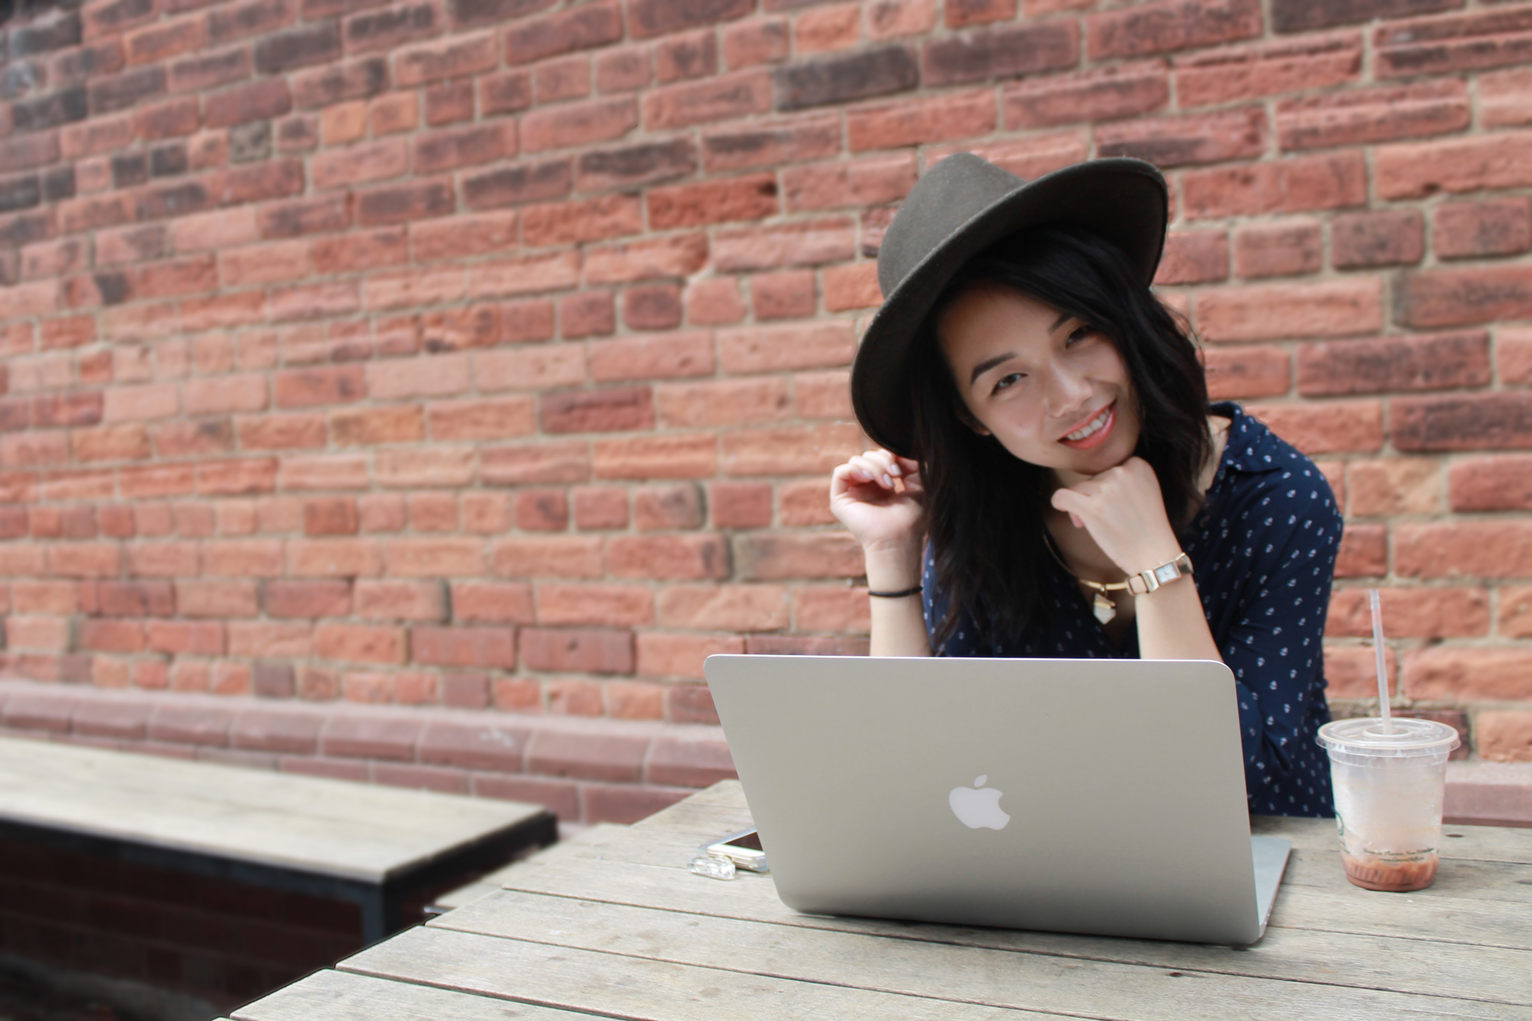
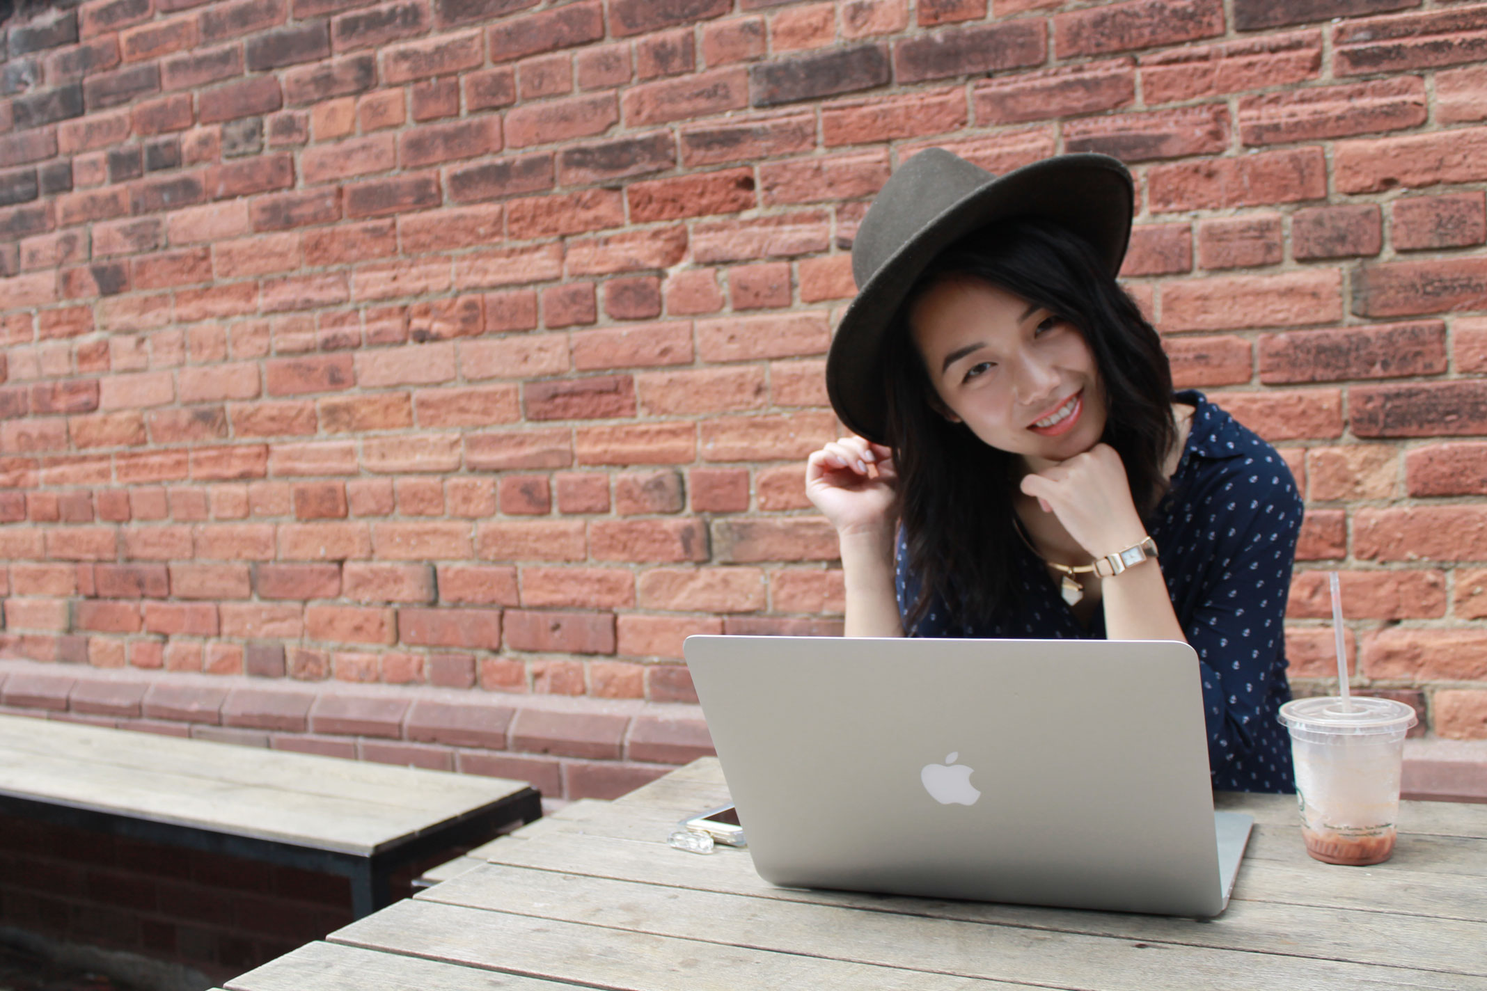
improved header image loading

diff --git a/assets/stylesheets/css/base.css b/assets/stylesheets/css/base.css
@@ -1,1 +1,1 @@
-body{font-family:proxima-nova,Helvetica,Arial,sans-serif;color:#1b1c1c;font-size:14px;font-weight:300}@media (min-width:768px){body{font-size:20px}}h1{color:#13cec8;font-weight:700;font-size:3.5em;margin-top:190px}@media (max-width:768px){h1{margin-top:3em}}h2{color:#989999;font-style:italic;font-weight:300;font-size:1.4em;margin-top:0}h3{color:#989999;text-transform:capitalize;font-size:2.1em;margin-top:.5em}h4{font-size:3em}h5{font-weight:700;font-size:1.2em}p{font-size:1em}p.disclaimer{color:#989999;font-size:.8em}a{color:#ff6c4e}a:hover{color:#a94c39}.story{margin:0 20px}#slide-1{margin-top:0;-webkit-transition:margin-top .35s ease;-o-transition:margin-top .35s ease;transition:margin-top .35s ease;background-color:#13cec8;margin-left:-15px;margin-right:-15px;position:relative}@media (min-width:768px){#slide-1{background-image:url(../../img/main-banner.jpg);background-repeat:no-repeat;background-position:center center;background-size:cover}#slide-1 .img-filter{background-color:rgba(65,66,66,.36);margin:0}}@media (max-width:798px){#slide-1{height:300px;-webkit-transition:height .35s ease;-o-transition:height .35s ease;transition:height .35s ease}#slide-1 #startImage{height:300px}}#slide-1.movingDown{height:527px;-webkit-transition:height .35s ease;-o-transition:height .35s ease;transition:height .35s ease}#slide-1 #title-info{position:absolute;top:35%;margin-top:0;-webkit-transition:margin-top .35s ease;-o-transition:margin-top .35s ease;transition:margin-top .35s ease}#slide-1 #title-info.movingDown{margin-top:227px;-webkit-transition:margin-top .35s ease;-o-transition:margin-top .35s ease;transition:margin-top .35s ease}@media (max-width:768px){#slide-1 li#contactMe{padding-right:25px;padding-top:3px;padding-bottom:8px}#slide-1 .navbar-bottom{top:-moz-calc(100% - 53px);top:-webkit-calc(100% - 53px);top:-o-calc(100% - 53px);top:calc(100% - 53px);margin-right:-22px;margin-left:-22px}#slide-1 .nav>li{padding-right:10px}}#slide-1 h1{color:#fff;margin:0}#slide-1 h2,#slide-1 a{color:#ebecec}#slide-1 a:hover{background-color:#414242}#slide-1 .row{margin:0 15px}.home-section-title{text-align:center}#slide-2{margin-top:0;-webkit-transition:margin-top .35s ease;-o-transition:margin-top .35s ease;transition:margin-top .35s ease}#slide-2 .skill-sets{text-align:center;margin-top:15px}@media (max-width:768px){#slide-2 .skill-sets{margin-bottom:25px}#slide-2 .skill-sets h5{margin-top:10px;margin-bottom:5px}}#slide-2 .fa-5x{color:#13cec8;font-size:4em}#slide-2 h5{margin-top:30px}#slide-4 .company{color:#ff6c4e;font-weight:400}#slide-4 [class^=des-]{font-size:.8em;color:#989999;margin:0}@media (max-width:768px){#slide-4 [class^=des-]{font-size:.8em}}#slide-4 .opp{margin:20px 0 45px}#slide-4 h5{margin-bottom:0;margin-top:0}#slide-4 h3{padding-left:15px}@media (max-width:992px){#slide-4 .description{margin-top:10px}}.footer{background-color:#1b1c1c}.footer ul{padding:0}.footer li{position:relative;display:inline-block;margin-top:10px;padding-left:calc(12.5% - .75em);padding-right:calc(12.5% - .75em)}.footer li a{color:#ebecec}#slide-3{margin:0 -15px;overflow:hidden}#slide-3 #portfolio{margin:0 auto;overflow:scroll;padding:0;text-align:left;width:100%}#slide-3 #portfolio h5{font-weight:400}#slide-3 #portfolio .row{margin:0;position:relative;left:0}#slide-3 #portfolio .col-12{display:inline-block;height:451px;margin:0;padding:0;width:452px}#slide-3 #portfolio figure{position:relative;z-index:1;display:inline-block;overflow:hidden;cursor:pointer}@media (max-width:768px){#slide-3 #portfolio figure{margin-bottom:20px}}#slide-3 #portfolio figure #figAStyling{position:absolute;top:0;left:0;width:100%;height:100%}#slide-3 #portfolio figure a{z-index:1000;text-indent:200%;white-space:nowrap;font-size:0;opacity:0;position:absolute;top:0;left:0;width:100%;height:100%}@media (min-width:768px){#slide-3 #portfolio figure figcaption{padding:2em;bottom:0;font-size:1.25em;color:#fff;-webkit-backface-visibility:hidden;backface-visibility:hidden;position:absolute;top:0;left:0;width:100%;height:100%}#slide-3 #portfolio figure figcaption p{position:absolute;bottom:0;line-height:1.1em;border-top:1px solid #fff}#slide-3 #portfolio figure figcaption::before{position:absolute;top:0;left:0;width:100%;height:100%;content:'';opacity:0;-webkit-transform:translate3d(0,50%,0);transform:translate3d(0,50%,0);background:rgba(65,66,66,.36);-webkit-transition:opacity .35s,-webkit-transform .35s;transition:opacity .35s,transform .35s}#slide-3 #portfolio figure figcaption #Effects{-webkit-transition:opacity .35s,-webkit-transform .35s;transition:opacity .35s,transform .35s}#slide-3 #portfolio figure figcaption p{-webkit-transition:opacity .35s,-webkit-transform .35s;transition:opacity .35s,transform .35s;position:absolute;bottom:0;left:1em;padding:1em;width:calc(100% - 2em);opacity:0;-webkit-transform:translate3d(0,10px,0);transform:translate3d(0,10px,0)}#slide-3 #portfolio figure:hover figcaption::before,#slide-3 #portfolio figure:hover p{opacity:1;-webkit-transform:translate3d(0,0,0);transform:translate3d(0,0,0)}}#slide-3 #portfolio img{display:block;height:100%;margin:0 auto;width:100%;position:relative}@media (max-width:991px){#slide-3 #portfolio{text-align:center;width:100%}#slide-3 #portfolio .row{left:0!important;margin:0;width:100%!important}#slide-3 #portfolio .col-12{height:auto;width:50%}#slide-3 #portfolio a,#slide-3 #portfolio img{height:auto;max-height:100%;max-width:100%;width:auto}}#slide-3 #controls{float:right;margin-right:15px;margin-top:10px}#slide-3 #controls button{font-weight:400;font-size:inherit;outline:0;border:none!important;-webkit-box-shadow:none!important;-moz-box-shadow:none!important;box-shadow:none!important;color:#13cec8}#slide-3 #controls button:active{color:#277d7a}#slide-3 #controls button.inactive{color:#ebecec;cursor:inherit}#contactMeModal .modal-content{text-align:center}#contactMeModal .modal-header{border:none;padding-bottom:0}#contactMeModal .modal-header h1{margin-top:30px}#contactMeModal .modal-body{padding-top:0;margin-bottom:45px}.btn-primary{background-color:#13cec8;border-color:#277d7a}.btn-primary:hover,.btn-primary:focus{background-color:#277d7a}.navbar-fixed-top{background:rgba(255,255,255,.85);padding:10px 17px 5px 17px;-moz-box-shadow:0 2px 3px 0 rgba(152,153,153,.33);box-shadow:0 2px 3px 0 rgba(152,153,153,.33);-webkit-transition:background .55s ease;transition:background .55s ease}@media (max-width:798px){.navbar-fixed-top{padding:0}.navbar-fixed-top li a{padding-right:25px}}.navbar-fixed-top .navbar-left{margin-left:-15px}.navbar-fixed-top .navbar-left li a{padding-left:0}.navbar-fixed-top a{color:#1b1c1c;font-weight:400!important}.navbar-fixed-top a:hover{background-color:transparent!important;color:#a94c39}.navbar-fixed-top .active{color:#ff6c4e!important}.navbar-fixed-top button.navbar-toggle span{background:#1b1c1c}.navbar-fixed-top li#contactMe{margin-top:7px;margin-left:9px}.navbar-fixed-top li.active a{padding-left:0}.navbar-fixed-top.navbar-clear{background:rgba(65,66,66,.4);box-shadow:none;-webkit-transition:background .35s ease;transition:background .35s ease}.navbar-fixed-top.navbar-clear a{color:#ebecec}.navbar-fixed-top.navbar-clear a:hover{color:#ff6c4e}.navbar-fixed-top.navbar-clear .btn-primary{background-color:transparent;border:1px solid #ebecec;color:#ebecec}.navbar-fixed-top.navbar-clear.darker{background:rgba(65,66,66,.75);box-shadow:none;-webkit-transition:background .35s ease;transition:background .35s ease}.navbar-fixed-top.navbar-clear button.navbar-toggle span{background:#ebecec}.portfolio-pieces{text-align:center}.portfolio{margin:0 20px}@media (min-width:992px){.portfolio .title{margin-left:5em}}@media (min-width:768px){.portfolio .title{margin-left:2em}}.portfolio .portfolio-story{position:relative}.portfolio h4{text-align:center}@media (min-width:768px){.img-right{float:right;margin-right:-56px}.img-left{margin-left:-56px}}[id^=portfolio-cover-img-]{background-repeat:no-repeat;background-position:center top;height:450px}@media (max-width:768px){[id^=portfolio-cover-img-]{background-size:contain}}[id^=portfolio-cover-img-] p{display:none}#portfolio-cover-img-android{background-image:url(/assets/img/bc-android/newapp.png)}#portfolio-cover-img-infiniteScroll{background-image:url(/assets/img/bc-infiniteScroll/infinitescrolltab.png);width:100%}#portfolio-cover-img-alert{background-image:url(/assets/img/mongo-alerts/uiMac.png)}#portfolio-cover-img-diaryStudy{background-image:url(/assets/img/bc-research/diary.jpg)}#portfolio-cover-img-timeline{background-image:url(/assets/img/mongo-timeline/timeline-browser.png)}#portfolio-cover-img-finder{background-image:url(/assets/img/finder/finder-cover-image.png);background-size:400px 723px}@media (max-width:768px){#portfolio-cover-img-finder{background-size:350px}}#portfolio-cover-img-serendipity{background-image:url(/assets/img/serendipity/air-balloon.png)}.section{margin-top:3em}.sub-section{margin-top:3em}@media (min-width:992px){.sub-section{display:flex;display:-webkit-box;display:-ms-flexbox;display:-webkit-flex;align-items:center;align-content:center}}#about-project{margin-top:80px}#other-works{position:relative;margin-bottom:100px;margin-top:200px;border-top:1px solid #ebecec}#other-works h4{font-weight:300;font-size:1.7em;color:#1b1c1c;text-align:left}#other-works h1{margin-bottom:30px;margin-top:90px;margin-bottom:50px;font-size:2em}@media (min-width:992px){#other-works .other-works-name{position:absolute;bottom:0;left:50%}}.header,.content{background:#fff;padding:1em;-webkit-box-sizing:border-box;-moz-box-sizing:border-box;box-sizing:border-box}.content-full{height:100%}#done{height:100%}#infiniteScroll #original{margin-top:3em}@media (max-width:768px){ul.nav{text-align:right}}span.line{border-bottom:1px solid #ebecec;opacity:.65;margin:7px}@media (max-width:768px){.text-right{text-align:left}}#other-works a:hover{text-decoration:none}#other-works a:hover h4{color:#a94c39}.persona{height:300px;width:100%;float:left;background-repeat:no-repeat;background-position:center top;background-image:url(/assets/img/finder/ashley.jpg)}@media (max-width:768px){.persona{background-image:url(/assets/img/finder/ashley-sm.jpg);height:150px;margin-bottom:1em}}.persona p{display:none}#user-research h5{margin-top:45px}@media (min-width:992px){#user-research h5#name{margin-top:0}}.img-center{display:block;margin-left:auto;margin-right:auto}iframe{overflow:hidden}.gray{color:#989999;font-weight:300}.img-full{max-height:450px}
+body{font-family:proxima-nova,Helvetica,Arial,sans-serif;color:#1b1c1c;font-size:14px;font-weight:300}@media (min-width:768px){body{font-size:20px}}h1{color:#13cec8;font-weight:700;font-size:3.5em;margin-top:190px}@media (max-width:768px){h1{margin-top:3em}}h2{color:#989999;font-style:italic;font-weight:300;font-size:1.4em;margin-top:0}h3{color:#989999;text-transform:capitalize;font-size:2.1em;margin-top:.5em}h4{font-size:3em}h5{font-weight:700;font-size:1.2em}p{font-size:1em}p.disclaimer{color:#989999;font-size:.8em}a{color:#ff6c4e}a:hover{color:#a94c39}.story{margin:0 20px}#slide-1{margin-top:0;-webkit-transition:margin-top .35s ease;-o-transition:margin-top .35s ease;transition:margin-top .35s ease;background-color:#13cec8;margin-left:-15px;margin-right:-15px;position:relative}@media (min-width:768px){#slide-1{background-image:url(../../img/main-banner.jpg);width:100%;height:100%;-webkit-background-size:cover;background-size:cover;position:absolute}}#slide-1 #home-row-1{height:inherit}#slide-1 #home-row-1 #startImage{height:inherit}@media (max-width:798px){#slide-1{height:300px;-webkit-transition:height .35s ease;-o-transition:height .35s ease;transition:height .35s ease}#slide-1 #startImage{height:300px}}#slide-1.movingDown{height:527px;-webkit-transition:height .35s ease;-o-transition:height .35s ease;transition:height .35s ease}#slide-1 #title-info{position:absolute;top:35%;margin-top:0;-webkit-transition:margin-top .35s ease;-o-transition:margin-top .35s ease;transition:margin-top .35s ease}#slide-1 #title-info.movingDown{margin-top:227px;-webkit-transition:margin-top .35s ease;-o-transition:margin-top .35s ease;transition:margin-top .35s ease}@media (max-width:768px){#slide-1 li#contactMe{padding-right:25px;padding-top:3px;padding-bottom:8px}#slide-1 .navbar-bottom{top:-moz-calc(100% - 53px);top:-webkit-calc(100% - 53px);top:-o-calc(100% - 53px);top:calc(100% - 53px);margin-right:-22px;margin-left:-22px}#slide-1 .nav>li{padding-right:10px}}#slide-1 h1{color:#fff;margin:0}#slide-1 h2,#slide-1 a{color:#ebecec}#slide-1 a:hover{background-color:#414242}#slide-1 .row{margin:0 15px}.home-section-title{text-align:center}#slide-2{margin-top:0;-webkit-transition:margin-top .35s ease;-o-transition:margin-top .35s ease;transition:margin-top .35s ease}#slide-2 .skill-sets{text-align:center;margin-top:15px}@media (max-width:768px){#slide-2 .skill-sets{margin-bottom:25px}#slide-2 .skill-sets h5{margin-top:10px;margin-bottom:5px}}#slide-2 .fa-5x{color:#13cec8;font-size:4em}#slide-2 h5{margin-top:30px}#slide-2::before{height:40%}#slide-4 .company{color:#ff6c4e;font-weight:400}#slide-4 [class^=des-]{font-size:.8em;color:#989999;margin:0}@media (max-width:768px){#slide-4 [class^=des-]{font-size:.8em}}#slide-4 .opp{margin:20px 0 45px}#slide-4 h5{margin-bottom:0;margin-top:0}#slide-4 h3{padding-left:15px}@media (max-width:992px){#slide-4 .description{margin-top:10px}}.footer{background-color:#1b1c1c}.footer ul{padding:0}.footer li{position:relative;display:inline-block;margin-top:10px;padding-left:calc(12.5% - .75em);padding-right:calc(12.5% - .75em)}.footer li a{color:#ebecec}#slide-3{margin:0 -15px;overflow:hidden}#slide-3 #portfolio{margin:0 auto;overflow:scroll;padding:0;text-align:left;width:100%}#slide-3 #portfolio h5{font-weight:400}#slide-3 #portfolio .row{margin:0;position:relative;left:0}#slide-3 #portfolio .col-12{display:inline-block;height:451px;margin:0;padding:0;width:452px}#slide-3 #portfolio figure{position:relative;z-index:1;display:inline-block;overflow:hidden;cursor:pointer}@media (max-width:768px){#slide-3 #portfolio figure{margin-bottom:20px}}#slide-3 #portfolio figure #figAStyling{position:absolute;top:0;left:0;width:100%;height:100%}#slide-3 #portfolio figure a{z-index:1000;text-indent:200%;white-space:nowrap;font-size:0;opacity:0;position:absolute;top:0;left:0;width:100%;height:100%}@media (min-width:768px){#slide-3 #portfolio figure figcaption{padding:2em;bottom:0;font-size:1.25em;color:#fff;-webkit-backface-visibility:hidden;backface-visibility:hidden;position:absolute;top:0;left:0;width:100%;height:100%}#slide-3 #portfolio figure figcaption p{position:absolute;bottom:0;line-height:1.1em;border-top:1px solid #fff}#slide-3 #portfolio figure figcaption::before{position:absolute;top:0;left:0;width:100%;height:100%;content:'';opacity:0;-webkit-transform:translate3d(0,50%,0);transform:translate3d(0,50%,0);background:rgba(65,66,66,.36);-webkit-transition:opacity .35s,-webkit-transform .35s;transition:opacity .35s,transform .35s}#slide-3 #portfolio figure figcaption #Effects{-webkit-transition:opacity .35s,-webkit-transform .35s;transition:opacity .35s,transform .35s}#slide-3 #portfolio figure figcaption p{-webkit-transition:opacity .35s,-webkit-transform .35s;transition:opacity .35s,transform .35s;position:absolute;bottom:0;left:1em;padding:1em;width:calc(100% - 2em);opacity:0;-webkit-transform:translate3d(0,10px,0);transform:translate3d(0,10px,0)}#slide-3 #portfolio figure:hover figcaption::before,#slide-3 #portfolio figure:hover p{opacity:1;-webkit-transform:translate3d(0,0,0);transform:translate3d(0,0,0)}}#slide-3 #portfolio img{display:block;height:100%;margin:0 auto;width:100%;position:relative}@media (max-width:991px){#slide-3 #portfolio{text-align:center;width:100%}#slide-3 #portfolio .row{left:0!important;margin:0;width:100%!important}#slide-3 #portfolio .col-12{height:auto;width:50%}#slide-3 #portfolio a,#slide-3 #portfolio img{height:auto;max-height:100%;max-width:100%;width:auto}}#slide-3 #controls{float:right;margin-right:15px;margin-top:10px}#slide-3 #controls button{font-weight:400;font-size:inherit;outline:0;border:none!important;-webkit-box-shadow:none!important;-moz-box-shadow:none!important;box-shadow:none!important;color:#13cec8}#slide-3 #controls button:active{color:#277d7a}#slide-3 #controls button.inactive{color:#ebecec;cursor:inherit}#contactMeModal .modal-content{text-align:center}#contactMeModal .modal-header{border:none;padding-bottom:0}#contactMeModal .modal-header h1{margin-top:30px}#contactMeModal .modal-body{padding-top:0;margin-bottom:45px}.btn-primary{background-color:#13cec8;border-color:#277d7a}.btn-primary:hover,.btn-primary:focus{background-color:#277d7a}.navbar-fixed-top{background:rgba(255,255,255,.85);padding:10px 17px 5px 17px;-moz-box-shadow:0 2px 3px 0 rgba(152,153,153,.33);box-shadow:0 2px 3px 0 rgba(152,153,153,.33);-webkit-transition:background .55s ease;transition:background .55s ease}@media (max-width:798px){.navbar-fixed-top{padding:0}.navbar-fixed-top li a{padding-right:25px}}.navbar-fixed-top .navbar-left{margin-left:-15px}.navbar-fixed-top .navbar-left li a{padding-left:0}.navbar-fixed-top a{color:#1b1c1c;font-weight:400!important}.navbar-fixed-top a:hover{background-color:transparent!important;color:#a94c39}.navbar-fixed-top .active{color:#ff6c4e!important}.navbar-fixed-top button.navbar-toggle span{background:#1b1c1c}.navbar-fixed-top li#contactMe{margin-top:7px;margin-left:9px}.navbar-fixed-top li.active a{padding-left:0}.navbar-fixed-top.navbar-clear{background:rgba(65,66,66,.4);box-shadow:none;-webkit-transition:background .35s ease;transition:background .35s ease}.navbar-fixed-top.navbar-clear a{color:#ebecec}.navbar-fixed-top.navbar-clear a:hover{color:#ff6c4e}.navbar-fixed-top.navbar-clear .btn-primary{background-color:transparent;border:1px solid #ebecec;color:#ebecec}.navbar-fixed-top.navbar-clear.darker{background:rgba(65,66,66,.75);box-shadow:none;-webkit-transition:background .35s ease;transition:background .35s ease}.navbar-fixed-top.navbar-clear button.navbar-toggle span{background:#ebecec}.portfolio-pieces{text-align:center}.portfolio{margin:0 20px}@media (min-width:992px){.portfolio .title{margin-left:5em}}@media (min-width:768px){.portfolio .title{margin-left:2em}}.portfolio .portfolio-story{position:relative}.portfolio h4{text-align:center}@media (min-width:768px){.img-right{float:right;margin-right:-56px}.img-left{margin-left:-56px}}[id^=portfolio-cover-img-]{background-repeat:no-repeat;background-position:center top;height:450px}@media (max-width:768px){[id^=portfolio-cover-img-]{background-size:contain}}[id^=portfolio-cover-img-] p{display:none}#portfolio-cover-img-android{background-image:url(/assets/img/bc-android/newapp.png)}#portfolio-cover-img-infiniteScroll{background-image:url(/assets/img/bc-infiniteScroll/infinitescrolltab.png);width:100%}#portfolio-cover-img-alert{background-image:url(/assets/img/mongo-alerts/uiMac.png)}#portfolio-cover-img-diaryStudy{background-image:url(/assets/img/bc-research/diary.jpg)}#portfolio-cover-img-timeline{background-image:url(/assets/img/mongo-timeline/timeline-browser.png)}#portfolio-cover-img-finder{background-image:url(/assets/img/finder/finder-cover-image.png);background-size:400px 723px}@media (max-width:768px){#portfolio-cover-img-finder{background-size:350px}}#portfolio-cover-img-serendipity{background-image:url(/assets/img/serendipity/air-balloon.png)}.section{margin-top:3em}.sub-section{margin-top:3em}@media (min-width:992px){.sub-section{display:flex;display:-webkit-box;display:-ms-flexbox;display:-webkit-flex;align-items:center;align-content:center}}#about-project{margin-top:80px}#other-works{position:relative;margin-bottom:100px;margin-top:200px;border-top:1px solid #ebecec}#other-works h4{font-weight:300;font-size:1.7em;color:#1b1c1c;text-align:left}#other-works h1{margin-bottom:30px;margin-top:90px;margin-bottom:50px;font-size:2em}@media (min-width:992px){#other-works .other-works-name{position:absolute;bottom:0;left:50%}}.header,.content{background:#fff;padding:1em;-webkit-box-sizing:border-box;-moz-box-sizing:border-box;box-sizing:border-box}.content-full{height:100%}#done{height:100%}#infiniteScroll #original{margin-top:3em}@media (max-width:768px){ul.nav{text-align:right}}span.line{border-bottom:1px solid #ebecec;opacity:.65;margin:7px}@media (max-width:768px){.text-right{text-align:left}}#other-works a:hover{text-decoration:none}#other-works a:hover h4{color:#a94c39}.persona{height:300px;width:100%;float:left;background-repeat:no-repeat;background-position:center top;background-image:url(/assets/img/finder/ashley.jpg)}@media (max-width:768px){.persona{background-image:url(/assets/img/finder/ashley-sm.jpg);height:150px;margin-bottom:1em}}.persona p{display:none}#user-research h5{margin-top:45px}@media (min-width:992px){#user-research h5#name{margin-top:0}}.img-center{display:block;margin-left:auto;margin-right:auto}iframe{overflow:hidden}.gray{color:#989999;font-weight:300}.img-full{max-height:450px}#home-content{position:absolute;top:100%;width:100%;margin-right:-15px;margin-left:-15px}footer{margin-right:-15px;margin-left:-15px}

diff --git a/index.html b/index.html
@@ -59,7 +59,6 @@
     <div class="container-fluid">
       
       <div class="slide" id="slide-1" data-slide="1">
-        <div class="img-filter">
           <div id="home-row-1" class="row clearfix">
             <div class="col-md-12" id="startImage">
               <div id="title-info">
@@ -72,9 +71,8 @@
 
             </div><!-- /col-12 -->
           </div><!-- /row -->
-        </div>
       </div><!-- /slide1 -->
-
+      <div class="container-fluid" id="home-content">
       <div class="slide story" id="slide-2" data-slide="2">
         <div class="row">
           <div class="col-md-10 col-md-offset-1 col-lg-8 col-lg-offset-2">
@@ -262,19 +260,21 @@
           </div>
         </div>
       </div><!--slide4-->
-    </div><!-- /container -->
-    <footer class="footer">
-      <div class="container">
-        <div class="col-md-8 col-md-offset-2 col-sm-10 col-sm-offset-1">
-          <ul class="social">
-            <li><a href="http://twitter.com/rmaggiecai"><i class="fa fa-twitter fa-lg"></i></a></li>
-            <li><a href="http://www.linkedin.com/in/rmaggiecai"><i class="fa fa-linkedin fa-lg"></i></a></li>
-            <li><a href="http://dribbble.com/rmaggiecai"><i class="fa fa-dribbble fa-lg"></i></a></li>
-            <li><a href="https://github.com/rmaggiecai"><i class="fa fa-github fa-lg"></i></a></li>
-          </ul>
+
+      <footer class="footer">
+        <div class="container">
+          <div class="col-md-8 col-md-offset-2 col-sm-10 col-sm-offset-1">
+            <ul class="social">
+              <li><a href="http://twitter.com/rmaggiecai"><i class="fa fa-twitter fa-lg"></i></a></li>
+              <li><a href="http://www.linkedin.com/in/rmaggiecai"><i class="fa fa-linkedin fa-lg"></i></a></li>
+              <li><a href="http://dribbble.com/rmaggiecai"><i class="fa fa-dribbble fa-lg"></i></a></li>
+              <li><a href="https://github.com/rmaggiecai"><i class="fa fa-github fa-lg"></i></a></li>
+            </ul>
+          </div>
         </div>
-      </div>
-    </footer>
+      </footer>
+    </div><!--2nd containter -->
+    </div><!-- /container -->
     
     <!--modal-->
     <div class="modal fade" id="contactMeModal" tabindex="-1" role="dialog" aria-labelledby="myModalLabel" aria-hidden="true">

diff --git a/assets/stylesheets/less/base.less b/assets/stylesheets/less/base.less
@@ -93,17 +93,27 @@ a{
 #slide-1{
 	@media (min-width:768px) {
 		background-image: url("../../img/main-banner.jpg");
-		background-repeat: no-repeat;
-		background-position: center center;
+		// background-repeat: no-repeat;
+		// background-position: center center;
+		// background-size: cover;
+		width: 100%;
+		height: 100%;
+-webkit-background-size: cover;
 		background-size: cover;
+		position: absolute;
 
-		.img-filter{
-		background-color: @cover;
-		margin: 0px;
-		}
+		// .img-filter{
+		// background-color: @cover;
+		// margin: 0px;
+		// }
 	}
 
-	
+	#home-row-1{
+		height: inherit;
+		#startImage{
+			height: inherit;
+		}
+	}
 	@media(max-width: 798px){
 		height: 300px;
 		-webkit-transition: height .35s ease;
@@ -268,6 +278,10 @@ a{
 	}
 	h5{
 		margin-top: 30px;
+	}
+
+	&::before{
+		height: 40%;
 	}
 
 }
@@ -912,4 +926,17 @@ iframe{
 
 .img-full{
 	max-height: 450px;
+}
+
+#home-content{
+	position: absolute;
+	top:100%;
+	width: 100%;
+	margin-right: -15px;
+	margin-left: -15px;
+}
+
+footer{
+	margin-right: -15px;
+	margin-left: -15px;
 }

diff --git a/assets/js/script.js b/assets/js/script.js
@@ -11,8 +11,8 @@ $(document).ready(function() {
 		return parseInt($(window).height());
 	};
 	if ($(window).width() > 768){
-			$('#slide-1').height(setWindowHeight);
-		$('#startImage').height(setWindowHeight);
+			// $('#slide-1').height(setWindowHeight);
+		// $('#startImage').height(setWindowHeight);
 
 	}
 
